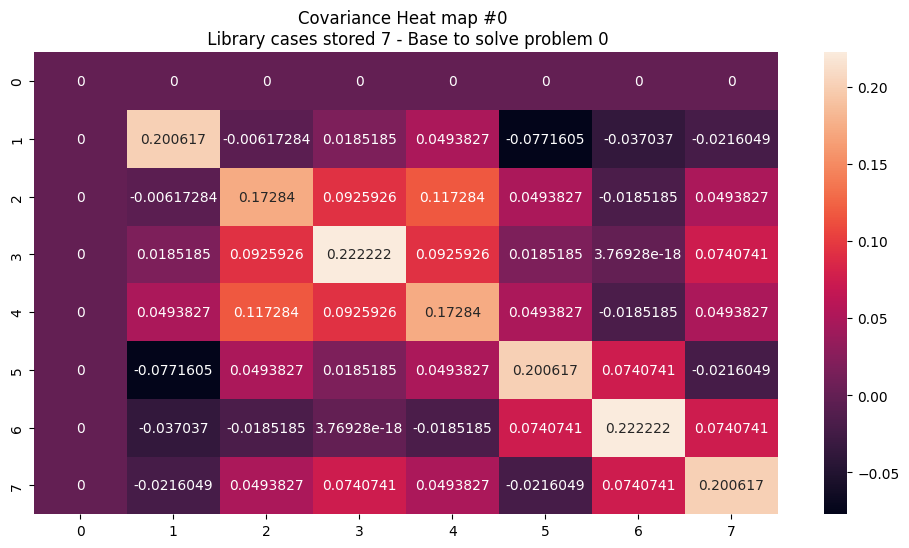
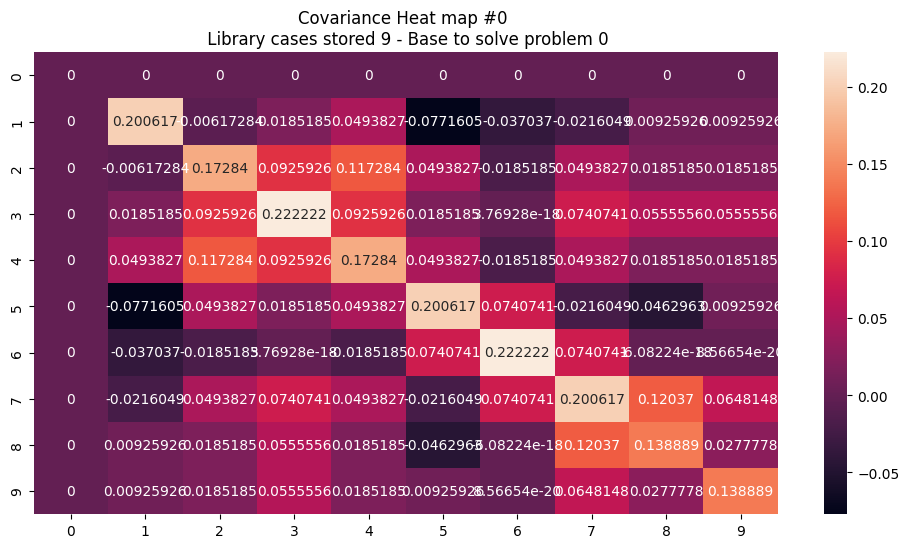
Add README.md

diff --git a/cbr.py b/cbr.py
@@ -67,6 +67,9 @@ def cbr_algorithm(cases):
         result = pd.DataFrame()
         result = result.append(
             case, ignore_index=True)
+        
+        library = library.append(
+            case, ignore_index=True)
 
         # Save 'covariance heat map (biased)' output as file
         sn.heatmap(np.cov(base, bias=True), annot=True, fmt='g')
@@ -84,6 +87,7 @@ def cbr_algorithm(cases):
 
     # Save 'library' output as file
     result.to_csv('output/result.csv', index=False)
+    library.to_csv('input/library.csv', index=False)
     return caseResult
 
 

diff --git a/README.md b/README.md
@@ -1,0 +1,3 @@
+# Run Project
+
+python3 main.py
